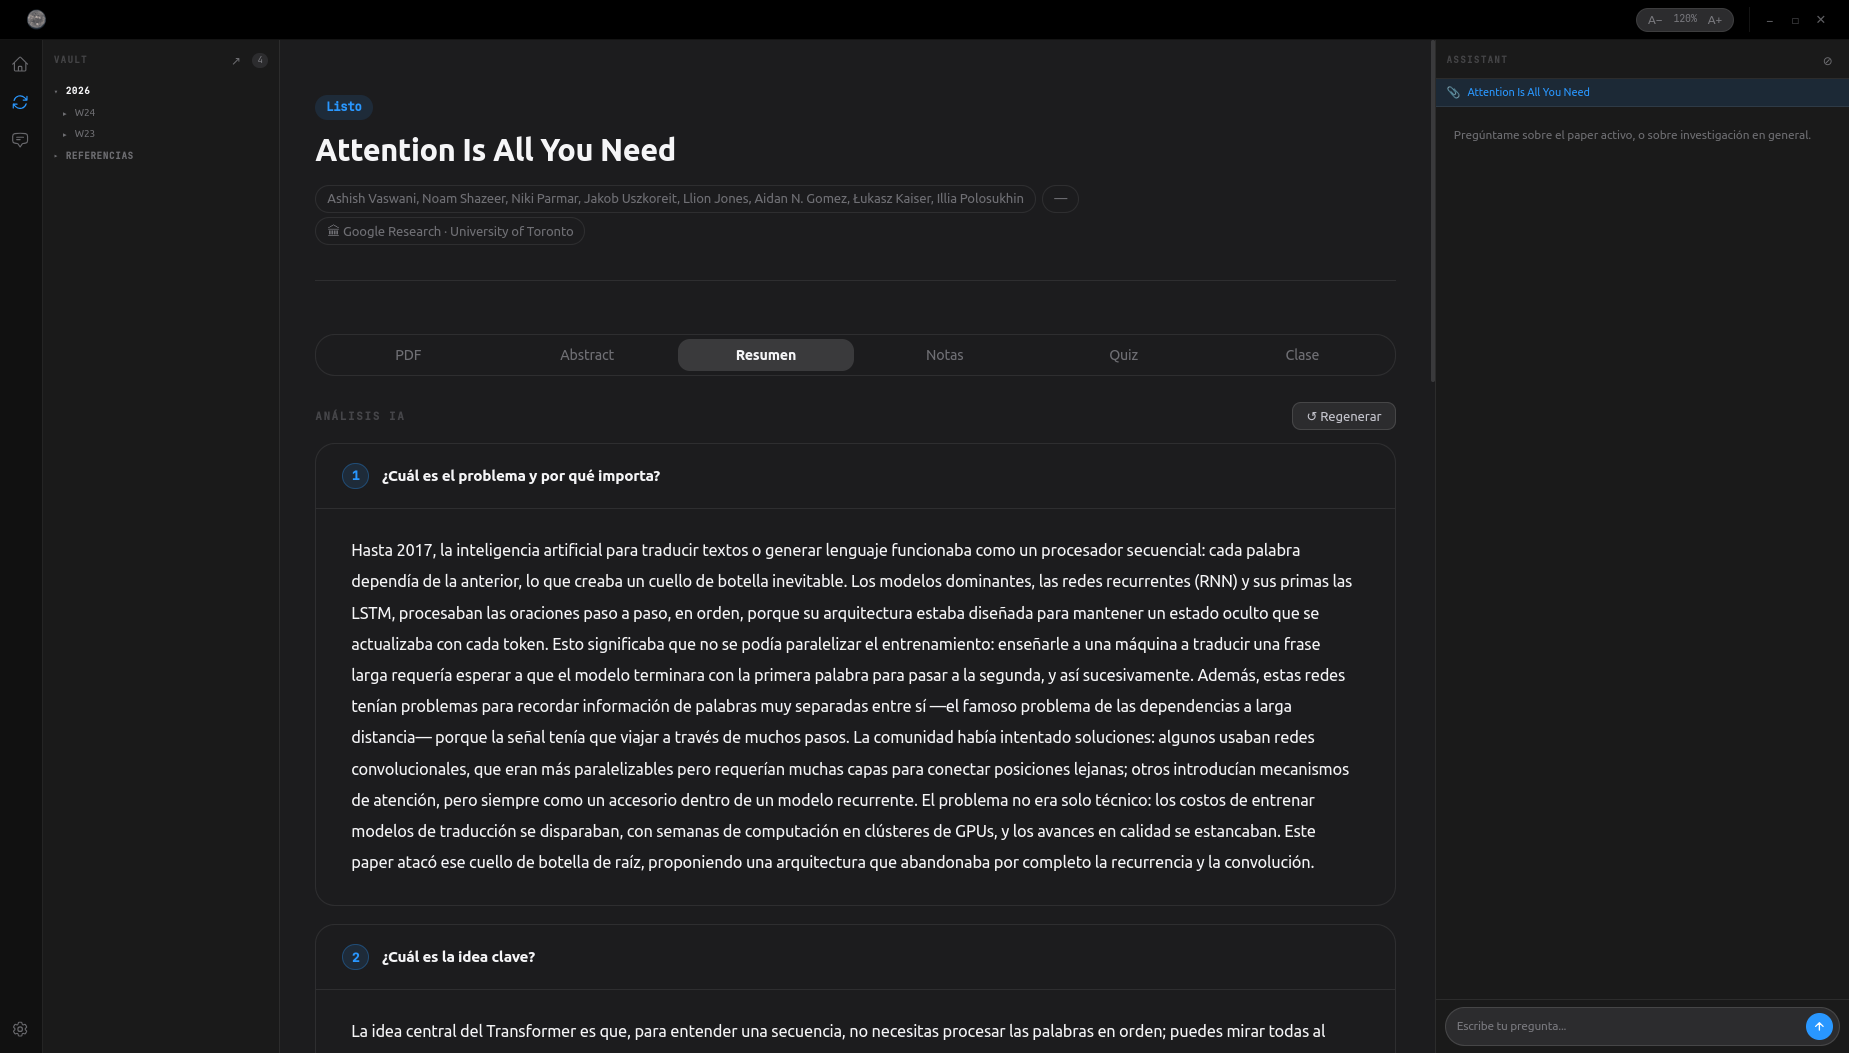
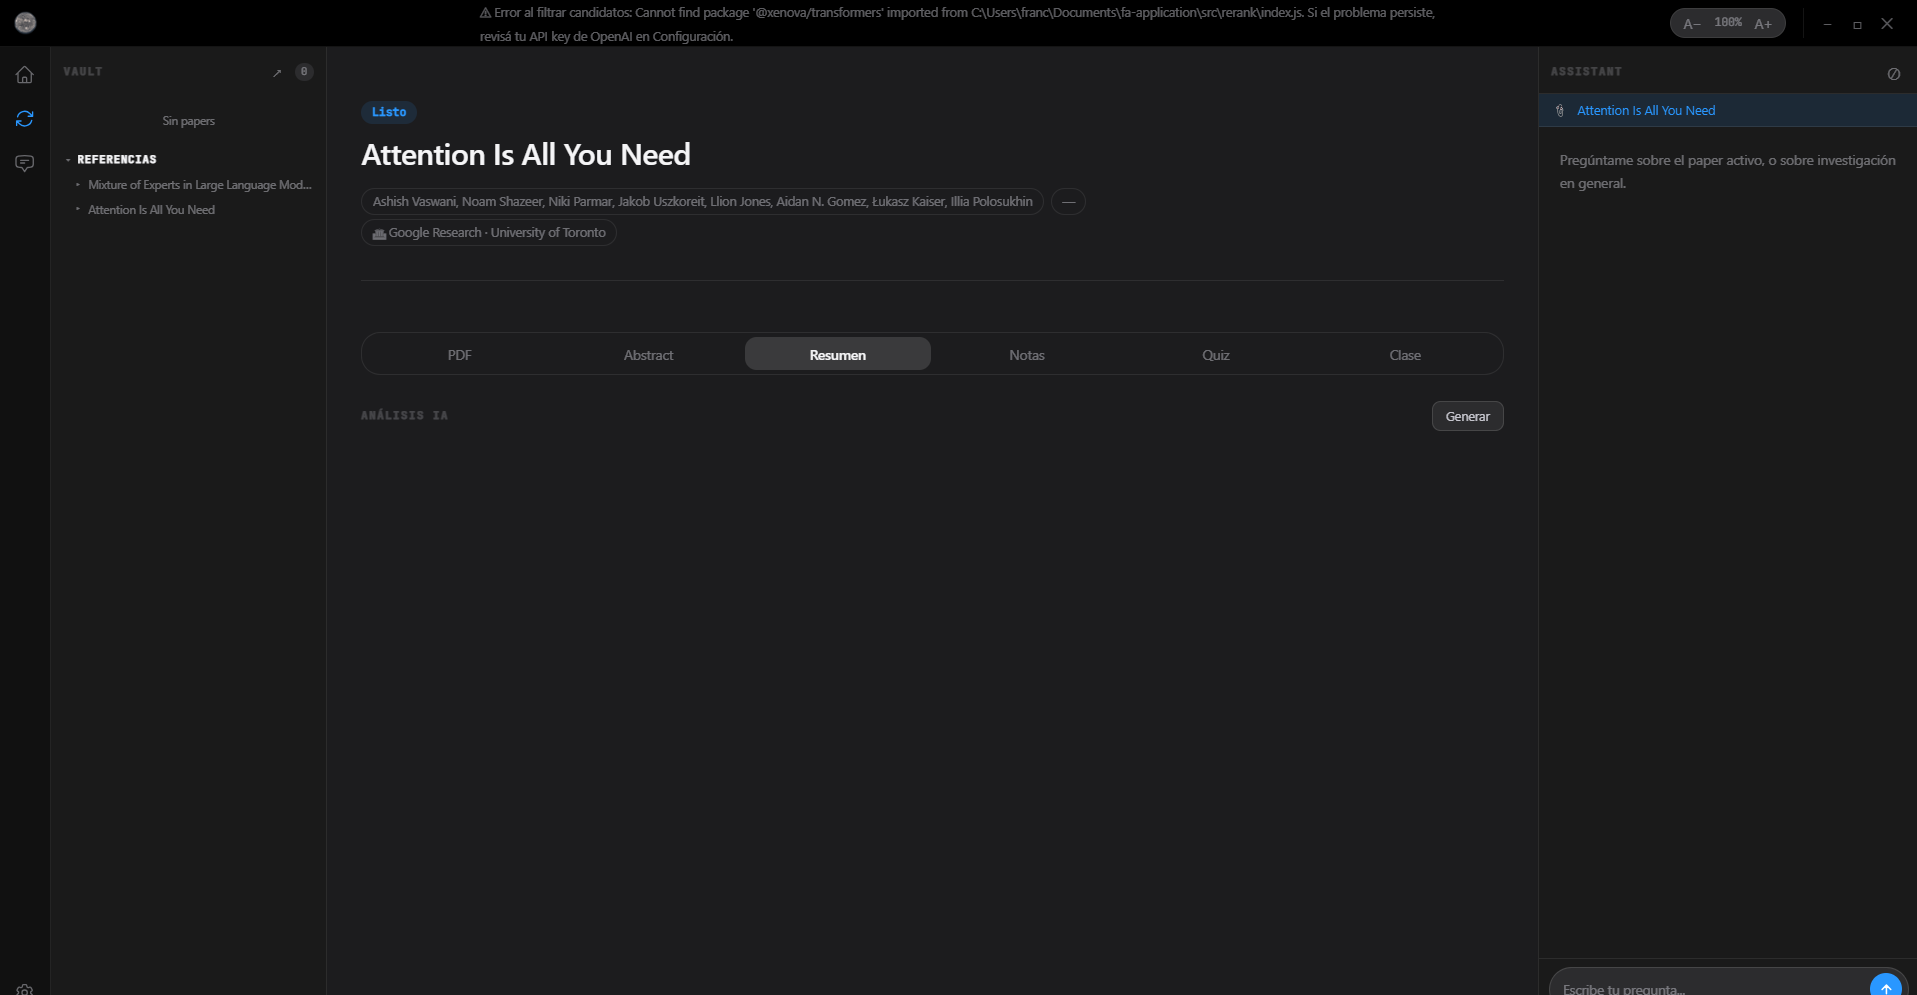
fix: show fetch errors in the bottom toast, not stuck in the topbar
El error de la ingesta se volcaba completo en #fetch-status (topbar
center), pensado para estados cortos, y se quedaba pegado. Ahora el
detalle va solo al toast (abajo) con auto-limpieza del topbar, y los
toasts de error duran 8s para poder leer mensajes largos.

diff --git a/renderer/app.js b/renderer/app.js
@@ -92,8 +92,11 @@ async function triggerFetch() {
   try {
     const result = await window.api.fetchPapers()
     if (result && result.error) {
-      toast('Error: ' + result.error, 'error')
-      status.textContent = '⚠ ' + result.error
+      // El detalle completo va al toast (abajo); la barra superior solo lleva
+      // un rótulo corto para no romper el layout del topbar con texto largo.
+      toast('Error en la ingesta: ' + result.error, 'error')
+      status.textContent = '⚠ Error en la ingesta'
+      setTimeout(() => { status.textContent = '' }, 4000)
     } else if (Array.isArray(result)) {
       state.papers = await window.api.getPapers()
       autoExpandRecent()

diff --git a/renderer/modules/toast.js b/renderer/modules/toast.js
@@ -3,5 +3,7 @@ export function toast(msg, type = 'info') {
   el.className = `toast toast-${type}`
   el.textContent = msg
   document.getElementById('toast-container').appendChild(el)
-  setTimeout(() => el.remove(), 3500)
+  // Los errores suelen ser mensajes largos que el usuario necesita leer con
+  // calma, así que se muestran más tiempo que un aviso normal.
+  setTimeout(() => el.remove(), type === 'error' ? 8000 : 3500)
 }
